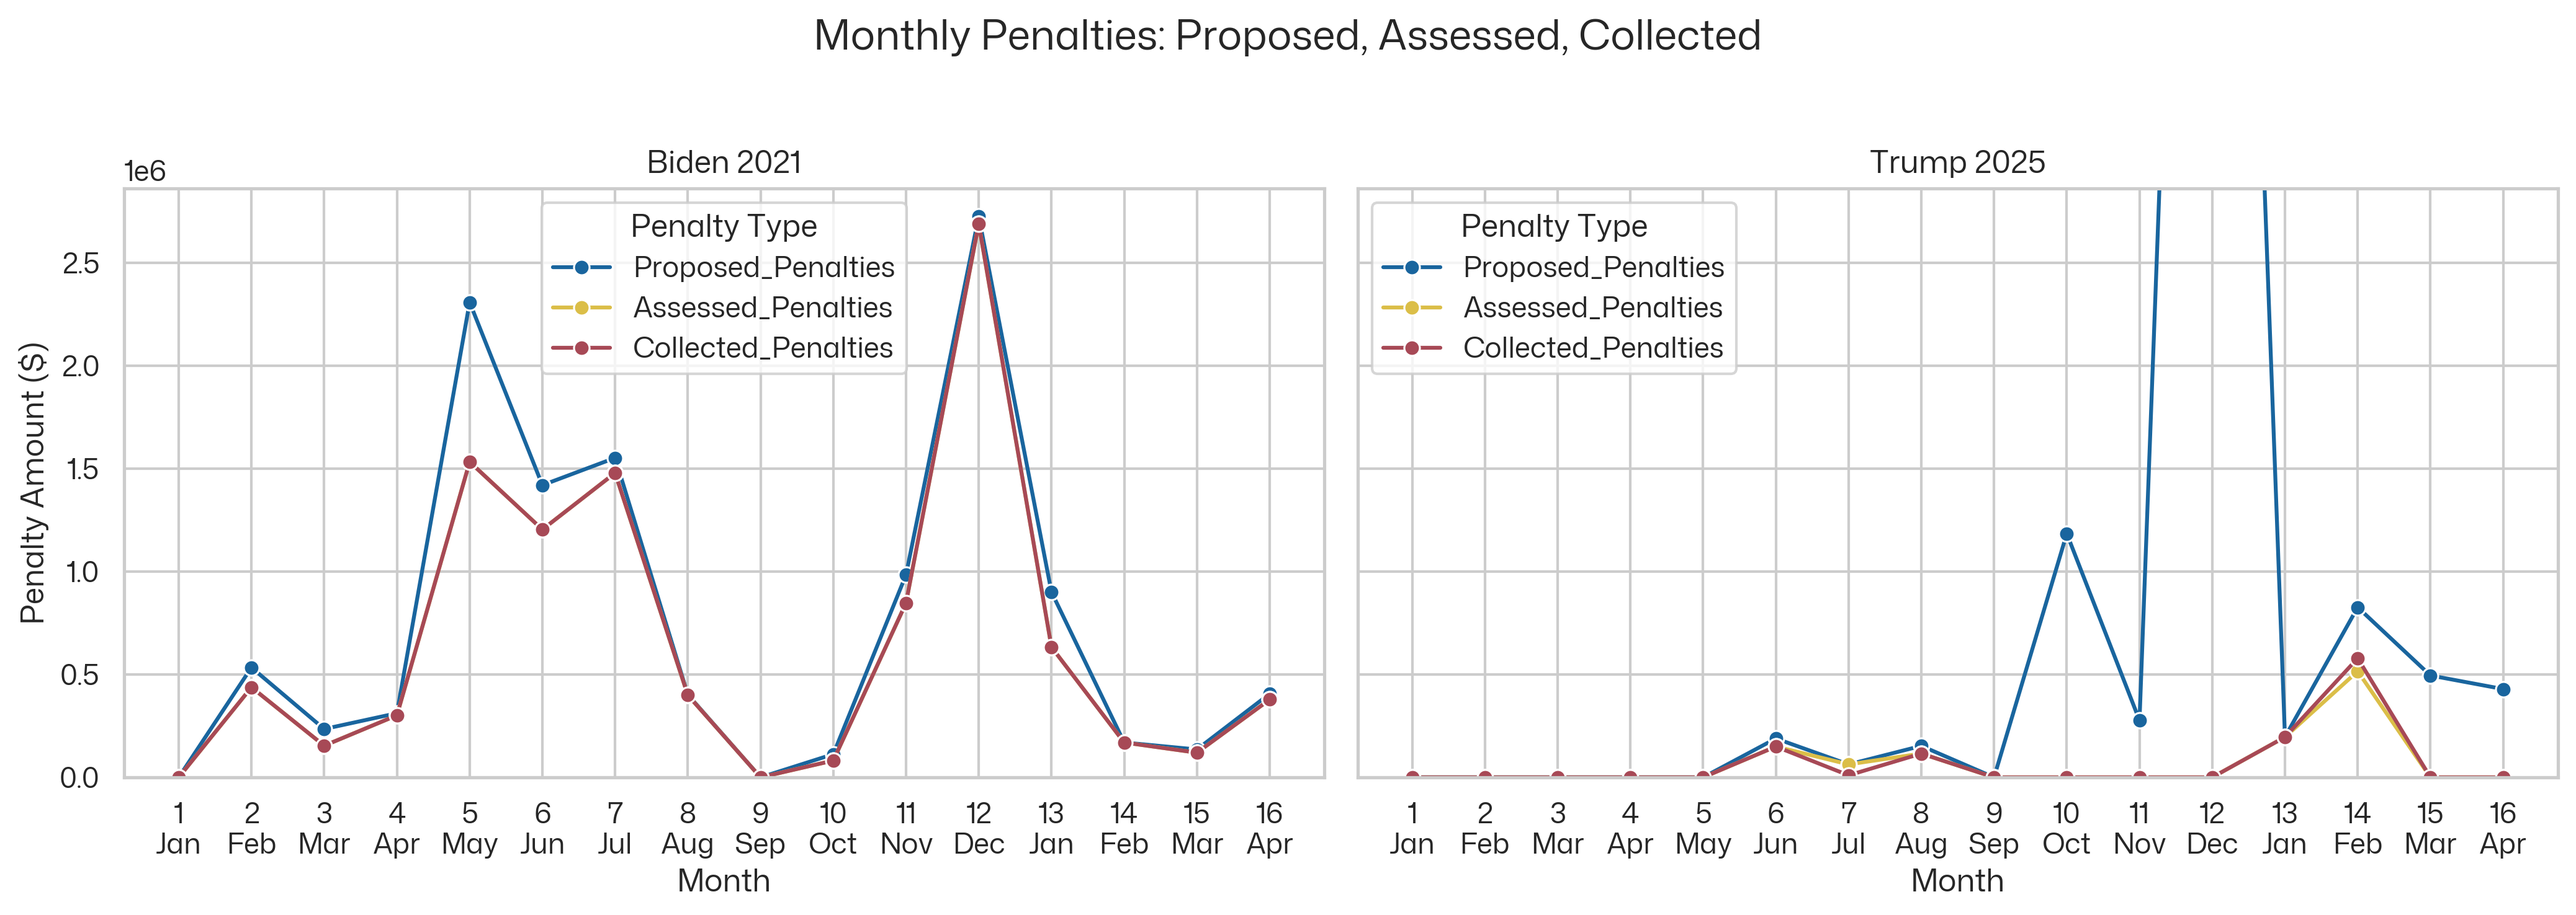
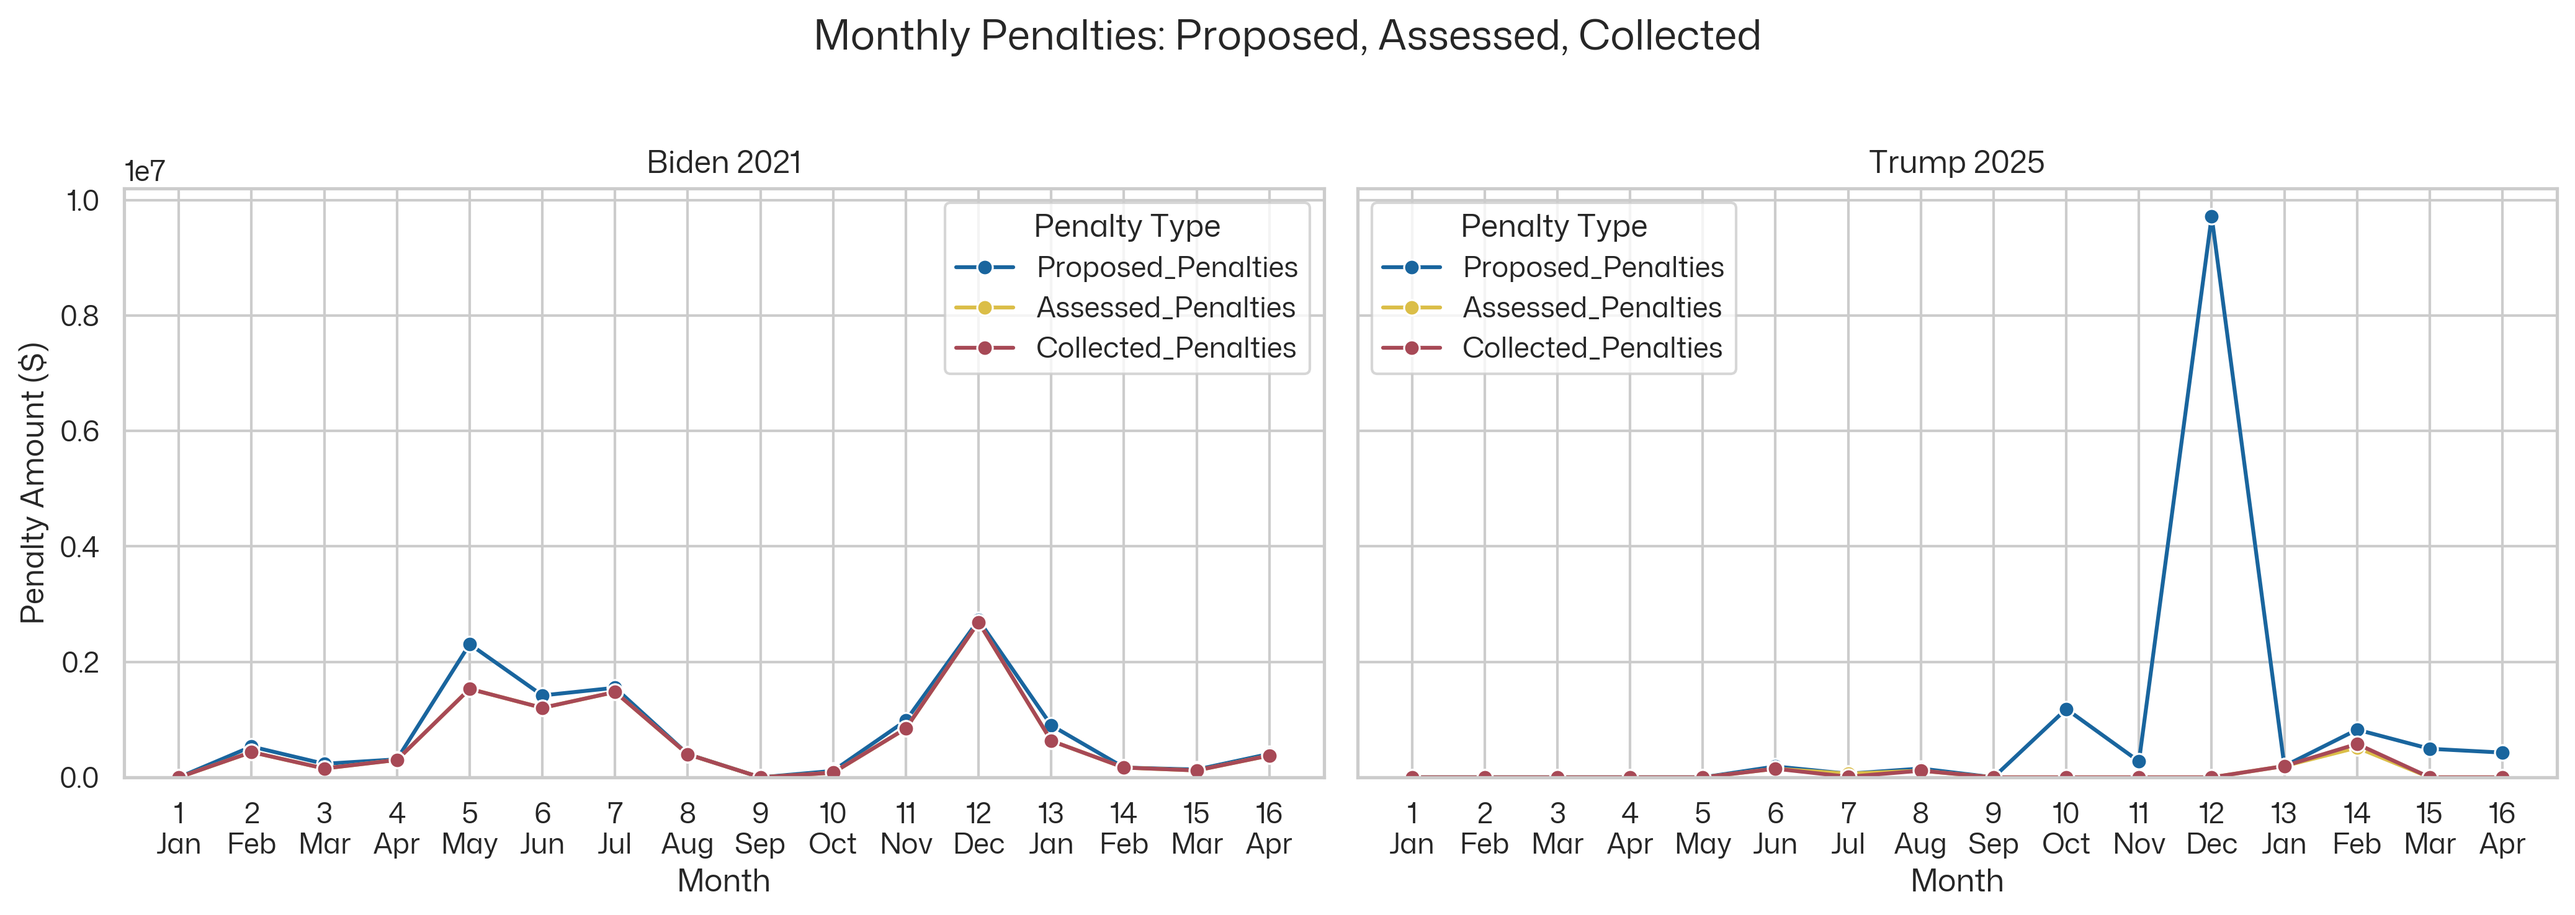
Y-axis scaling fix

diff --git a/phmsa_enforcement_analysis/phmsa_enforcement_analysis.py b/phmsa_enforcement_analysis/phmsa_enforcement_analysis.py
@@ -205,7 +205,7 @@ for ax, pres in zip(axes, ["Biden 2021", "Trump 2025"]):
     ax.set_xticks(month_range)
     ax.set_xticklabels(month_labels)
     ax.set_ylabel("Penalty Amount ($)")
-    ax.set_ylim(0, None)
+    ax.set_ylim(0, None, auto=True)
     ax.legend(title="Penalty Type")
 
 plt_title = "Monthly Penalties: Proposed, Assessed, Collected"
@@ -438,7 +438,7 @@ for ax, pres in zip(axes, ["Biden 2021", "Trump 2025"]):
     ax.set_xticks(month_range)
     ax.set_xticklabels(month_labels)
     ax.set_ylabel("Cumulative Penalty Amount ($)")
-    ax.set_ylim(0, None)
+    ax.set_ylim(0, None, auto=True)
     ax.legend(title="Penalty Type")
 
 plt_title = "Cumulative Penalties: Proposed, Assessed, Collected"
